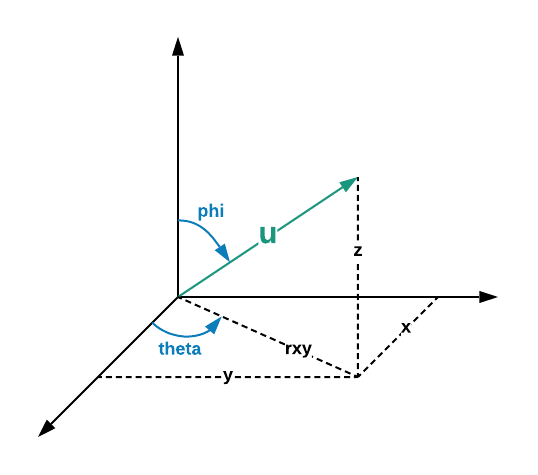
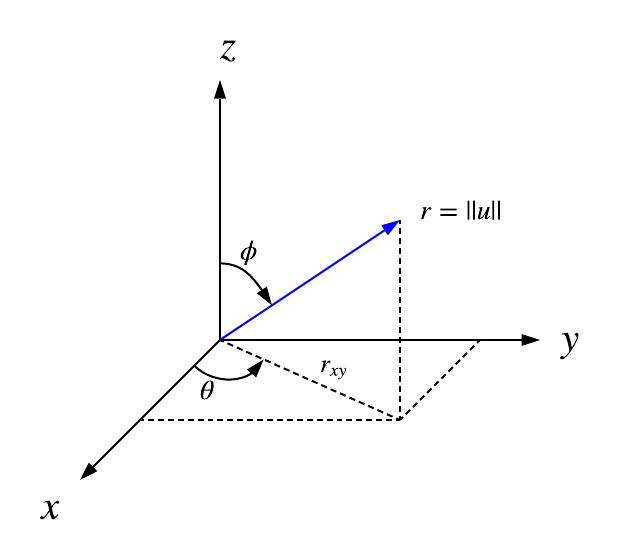
doc : fixing typo and make it clearer, clean diagrams

diff --git a/src/Vector3.ts b/src/Vector3.ts
@@ -6,48 +6,53 @@ import Vector from "./int/Vector";
 /**
  *
  * ## Brief
- * [[Vector3]] represents 3D vectors.
+ * [[Vector3]] represents 3D vectors as a set of three numerical components. They implement [[Vector]] interface.
  *
  * ### Main features
  * - **Array like** access `u[0]`, `u[1]`, ...
- * - **Geometrical operations** `angle`, `cross`, `dist`, ...
- * - **Many coordinates system** accessors `x`, `y`, `z`, `r`, `theta`, `lat`, `lon` ...
+ * - **Algebra** `add`, `mul`, `neg`
+ * - **Geometry** `angle`, `cross`, `dist`, `rot`, ...
+ * - **Coordinates system** accessors `x`, `y`, `z`, `r`, `theta`, `lat`, `lon` ...
  * - **Basis generators** like `ex`, `er(u)`, `e(k)`, ...
- * - **Rotations** of vector around `ex`, `ey`, `ez` and custom axis, `rot`, `rotX`, ...
- *
- * Not all the operations have been detailed here
- * to learn more about provided operations see [[Vector]].
  *
  * ## Getting Started
  *
- * Before explaining any code lets started by understanding a little diagram.
+ * [[Vector3]] objects are made of an array of three cartesian coordinates in an arbitrary basis `[x, y, z]`.
+ * They can be considered the following column vector :
+ *
+ * ![Vector3 shape](media://vector3_shape.png)
+ *
+ * ### Coordinates systems
+ *
+ * Before explaining any code lets start by understanding a little diagram.
  *
  * ![Coordinates system](media://coordinates_diagram.png)
  *
- * The diagram specifies how the angles, and coordinates are defined according to an orthonormal frame.
+ * This diagram represents 3D space provided with an orthonormal basis, we see that `u` can be
+ * decomposed in three different coordinates systems :
+ * - cartesian coordinates `(x, y, z)`
+ * - cylindrical coordinates `(rxy, theta, z)`
+ * - spherical coordinates  `(r, theta, phi)`
  *
- * We can defined the _canonical basis_ as bellow.
+ * **Note** θ and Φ are respectively denoted `theta` and `phi` in the framework
  *
- * ![Cartesian system](media://cartesian_diagram.png)
+ * The diagram specifies which convention are chosen for the coordinates systems provided.
  *
- * This basis defines 3 fixed directions of `left`, `forward` and `up`, it's the same as Unity for example.
- * Anyway `ex`, `ey`, `ez` are more flexible then `left`, `forward`, `up` notation cause you can compute equations using theses
- * `ek` vectors without necessarily referring to an orientation.
- *
- * ### Coordinates systems
- * Get and set cartesian, spherical and cylindrical coordinates.
+ * You can use the coordinates accessors to get and set the value of the coordinates.
  *
  * #### Example
  * ```js
  * let u = Vector3.ones; // u = (1, 1, 1)
  * u.r; // +sqrt(3)
- * u.x; // 1
+ * u.x = 1; // 1
  * u.theta; // +pi/4
  * u.xyz; // [1, 1, 1]
+ * u.r = 1; // u = 1/sqrt(3) * (1, 1, 1)
  * ```
  *
+ *
  * ### Geometrical features
- * Perform rotations, compute angles, get cosine, ...
+ * Perform rotations, compute angles, cross product, ...
  *
  * #### Example
  * ```js
@@ -57,19 +62,49 @@ import Vector from "./int/Vector";
  * ex.rotZ(Math.PI / 2); // ex becomes ey
  * ```
  *
- * For more details on rotations see [[Object3]].
+ * If you want to get deep into rotation features see [[Object3]].
  *
- * ### Basis generators
- * Represent 3D local basis such as cylindrical basis.
+ * ### Canonical basis
  *
+ * Represent the standard basis of 3D space made of :
+ * - `ex = (1, 0, 0)`
+ * - `ey = (0, 1, 0)`
+ * - `ez = (0, 0, 1)`
+ *
+ * You can represent the basis `(ex, ey, ez)` on the following diagram :
+ *
+ * ![Cartesian system](media://cartesian_diagram.png)
+ *
+ * `ex`, `ey` and `ez` often respectively represents `left`, `up` and `forward` directions in computer graphics.
+ *
+ * Anyway the first notation seems more general because math equations often use it without necessarily referring to these particular directions.
+ *
+ * For example `ex`, `ey`, `ez` as respectively `right`, `forward`, `up` directions is often used in mechanics.
+ *
+
+ *
+ * **Note** Here we have drawn `ex`, `ey` and `ez` as respectively `right`, `forward`, `up`.
+ *
+ * You can then generate vectors of this canonical basis
  * #### Example
  * ```js
  * let ex = Vector3.ex, ey = Vector3.ey, ez = Vector3.ez;
- * let er = Vector3.er(u), etheta = Vector3.etheta(u);
  * ```
  *
- * **Note** We assume that the local basis are formed as shown bellow
+ * ### Spherical and cylindrical basis
+ *
+ * The spherical basis vectors at `u` is represented bellow.
  * ![Spherical system](media://local_basis_diagram.png)
+ *
+ * **Note** All the vector of a local basis are orthogonal to each other and of norm 1.
+ *
+ * You can generate or compute a local basis vector of the two coordinates systems.
+ * #### Example
+ * ```js
+ * let er = Vector3.er(u), etheta = Vector3.etheta(u);
+ * w = w.erxy(Vector3.ones) // w = 1/sqrt(2) * (1, 1, 0);
+ * ```
+ *
  *
  * </br>
  * <center> 2019 <a href="https://github.com/samiBendou/">samiBendou</a> © All Rights Reserved </center>
@@ -177,8 +212,8 @@ export default class Vector3 extends Float64Array implements Vector, Object3 {
         return theta <= Math.PI ? theta : theta - 2 * Math.PI;
     }
 
-    set lon(newLat) {
-        this.rthph = [mag(this), newLat >= 0 ? newLat : newLat + 2 * Math.PI, this.phi];
+    set lon(newLon) {
+        this.rthph = [mag(this), newLon >= 0 ? newLon : newLon + 2 * Math.PI, this.phi];
     }
 
     /** cylindrical coordinates of the vector*/
@@ -206,7 +241,10 @@ export default class Vector3 extends Float64Array implements Vector, Object3 {
         this[2] = r * Math.cos(phi);
     }
 
-    /** constructs a vector with cartesian coordinates */
+    /**
+     * @brief Constructs a vector with cartesian coordinates. `
+     * @details If you don't specify components then the underlying array is initialized with the default values for `Float64Array`.
+     **/
     constructor(x?: number, y?: number, z?: number) {
         super(3);
 
@@ -681,6 +719,15 @@ export default class Vector3 extends Float64Array implements Vector, Object3 {
         return this;
     }
 
+    erxy(u: Vector): this {
+        const ux = u[0], uy = u[1],
+            urxy = Math.sqrt(ux * ux + uy * uy) || Number.POSITIVE_INFINITY;
+        this[0] = ux / urxy;
+        this[1] = uy / urxy;
+        this[2] = 0;
+        return this;
+    }
+
     etheta(u: Vector): this {
         const theta = Math.atan2(u[1], u[0]);
         this[0] = -Math.sin(theta);
@@ -756,32 +803,32 @@ export default class Vector3 extends Float64Array implements Vector, Object3 {
         return new Vector3(s * Math.cos(theta), s * Math.sin(theta), r * Math.cos(phi));
     }
 
-    /** first vector of canonical basis, equivalent to _right_ */
     static get ex(): Vector3 {
+        /** first vector of canonical basis `(1, 0, 0)`*/
         return new Vector3(1, 0, 0);
     }
 
-    /** opposite of the first vector of canonical basis, equivalent to _left_ */
+    /** opposite of the first vector of canonical basis `(-1, 0, 0)`*/
     static get exn(): Vector3 {
         return new Vector3(-1, 0, 0);
     }
 
-    /** second vector of canonical basis, equivalent to _up_ */
+    /** second vector of canonical basis `(0, 1, 0)`*/
     static get ey(): Vector3 {
         return new Vector3(0, 1, 0);
     }
 
-    /** opposite of the second vector of canonical basis, equivalent to _down_ */
+    /** opposite of the second vector of canonical basis `(0, -1, 0)`*/
     static get eyn(): Vector3 {
         return new Vector3(0, -1, 0);
     }
 
-    /** third vector of canonical basis, equivalent to _forward_ */
+    /** third vector of canonical basis `(0, 0, 1)`*/
     static get ez(): Vector3 {
         return new Vector3(0, 0, 1);
     }
 
-    /** third vector of canonical basis, equivalent to _backward_ */
+    /** third vector of canonical basis `(0, 0, -1)` */
     static get ezn(): Vector3 {
         return new Vector3(0, 0, -1);
     }
@@ -799,7 +846,7 @@ export default class Vector3 extends Float64Array implements Vector, Object3 {
 
     /**
      * @brief opposite of canonical basis vector
-     * @details `e(0) == ex`, `e(1) == ey`, `e(2) == ez`.
+     * @details `en(0) == exn`, `en(1) == eyn`, `en(2) == ezn`.
      * @param k {number} order of the vector in basis
      */
     static en(k: number): Vector3 {
